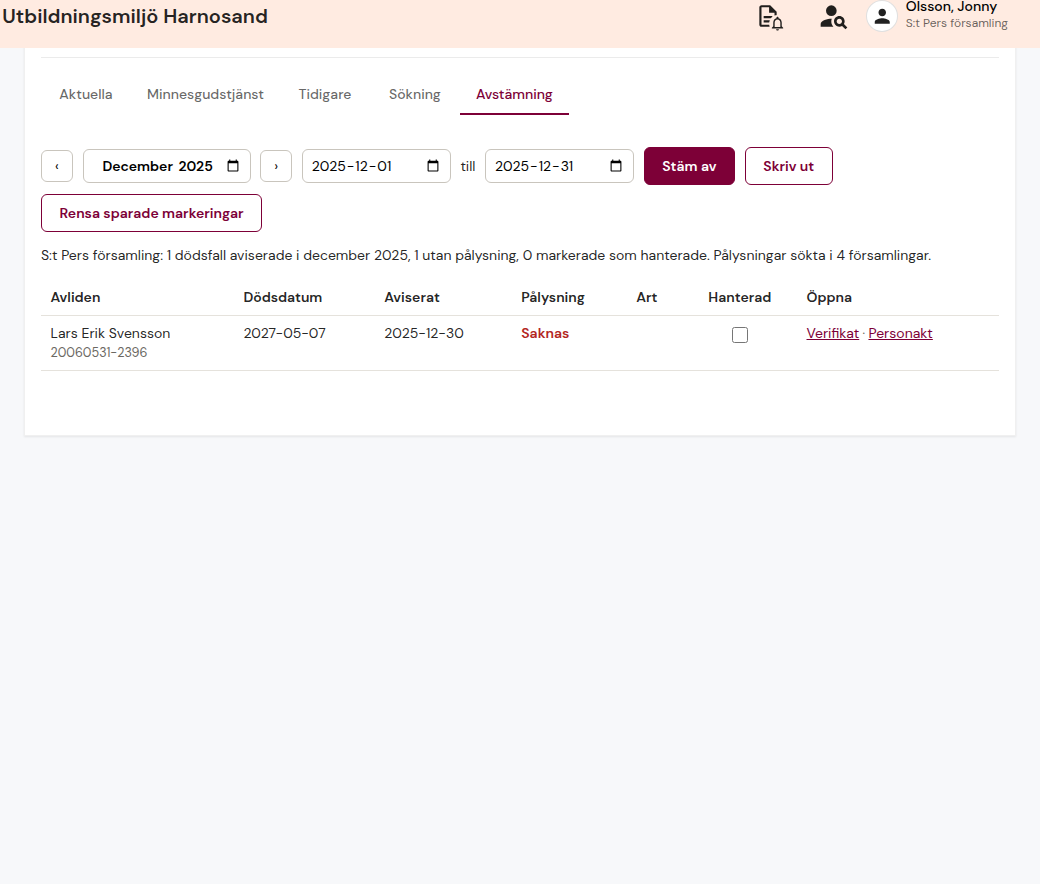
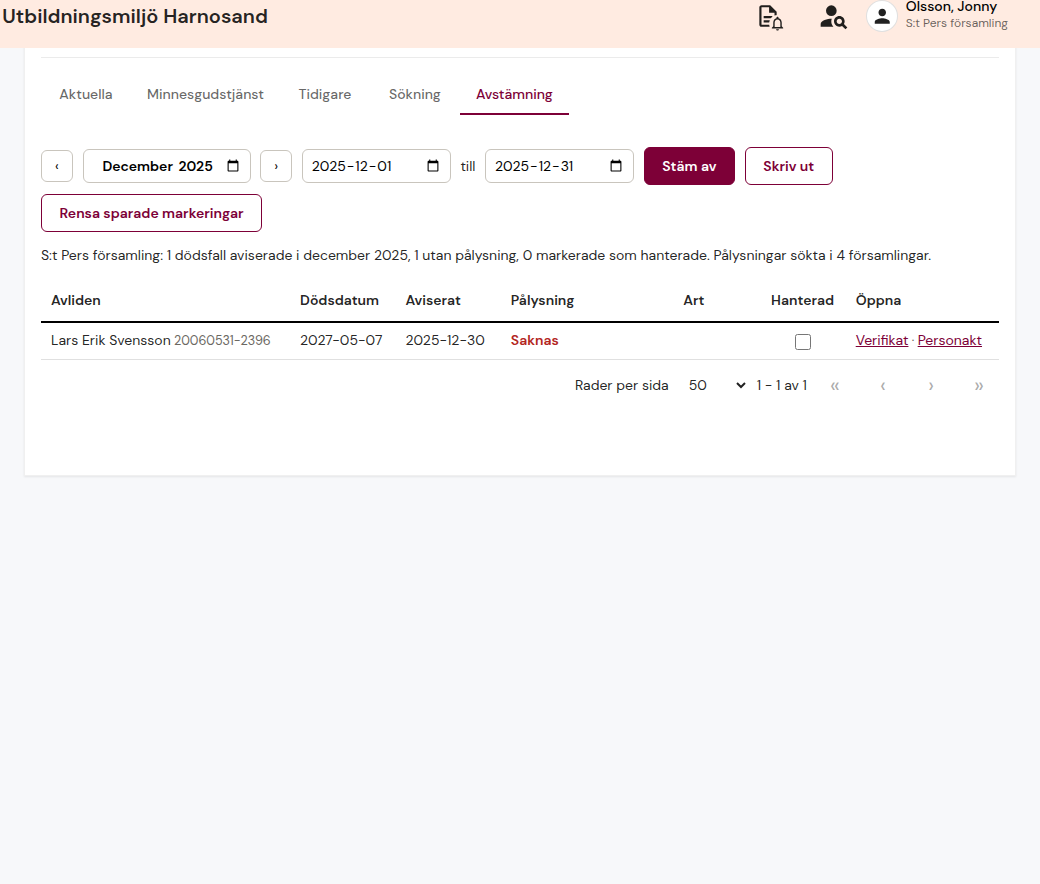
Ge avstämningstabellen Kboks gridutseende och paginering
Rubrikrad 42 px med svart underkant, rader 36 px utan skiljelinjer,
celler på en rad med ellips och fasta kolumnbredder. Fot med Rader per
sida (25/50/100, sparas i localStorage), sidräknare och fyra sidknappar.
Utskriften bygger sin tabell från hela listan, inte från sidan. Byggt av
Codex, kolumnbredderna justerade efter skärmdump, verifierat mot 112
rader i tre sidor.

Claude-Session: https://claude.ai/code/session_016wKJTBLN1626mGn4K9njpR

Changed region(s): [[0.0308, 0.3054, 0.9538, 0.4276], [0.5538, 0.4276, 0.6769, 0.4581], [0.7385, 0.4276, 0.7692, 0.4581]]

diff --git a/svk-kbok-enhancements.user.js b/svk-kbok-enhancements.user.js
@@ -3013,6 +3013,7 @@
      */
 
     const HANTERADE_NYCKEL = 'svk-kbok-hanterade';
+    const AVSTAMNING_SIDSTORLEK_NYCKEL = 'svk-kbok-avstamning-sidstorlek';
     const AVSTAMNING_ID = 'svk-kbok-avstamning';
     const DOLJ_KLASS = 'svk-kbok-dold-av-avstamning';
     const ARENDETYP_DODSFALL = 5;
@@ -3324,11 +3325,17 @@
             #${AVSTAMNING_ID} .svk-kbok-summering { margin: .2rem 0 .8rem; }
             #${AVSTAMNING_ID} .svk-kbok-status { color: #6b6862; }
             #${AVSTAMNING_ID} .svk-kbok-status.svk-kbok-fel { color: #b3261e; }
-            .svk-kbok-avstamningstabell { border-collapse: collapse; width: 100%; }
+            .svk-kbok-avstamningstabell { border-collapse: collapse; table-layout: fixed;
+                width: 100%; color: rgba(0, 0, 0, .87); font: inherit; }
             .svk-kbok-avstamningstabell th, .svk-kbok-avstamningstabell td {
-                text-align: left; vertical-align: top; padding: .45rem .6rem;
-                border-bottom: 1px solid #e5e2dc; }
-            .svk-kbok-avstamningstabell th { font-weight: 600; white-space: nowrap; }
+                box-sizing: border-box; overflow: hidden; padding: 0 10px;
+                text-align: left; text-overflow: ellipsis; white-space: nowrap; }
+            .svk-kbok-avstamningstabell th { height: 42px; border-bottom: 2px solid #000;
+                background: #fff; font-size: 14px; font-weight: 600; line-height: 40px; }
+            .svk-kbok-avstamningstabell tbody tr { height: 36px; }
+            .svk-kbok-avstamningstabell tbody tr:hover { background: rgba(0, 0, 0, .04); }
+            .svk-kbok-avstamningstabell td { height: 36px; border-bottom: 0;
+                font-size: 14px; line-height: 35px; }
             .svk-kbok-avstamningstabell .svk-kbok-mitt { text-align: center; }
             .svk-kbok-avstamningstabell .svk-kbok-mitt input { vertical-align: middle; }
             .svk-kbok-avstamningstabell .svk-kbok-saknas { color: #b3261e; font-weight: 600; }
@@ -3336,6 +3343,18 @@
             .svk-kbok-avstamningstabell tr.svk-kbok-hanterad td { opacity: .5; }
             .svk-kbok-avstamningstabell a { color: ${ACCENT}; }
             .svk-kbok-avstamningstabell .svk-kbok-dampad { color: #6b6862; font-size: .9em; }
+            #${AVSTAMNING_ID} .svk-kbok-paginering { display: flex; align-items: center;
+                justify-content: flex-end; gap: 8px; min-height: 52px;
+                border-top: 1px solid rgb(224, 224, 224); white-space: nowrap; }
+            #${AVSTAMNING_ID} .svk-kbok-paginering select { border: 0; background: transparent;
+                color: inherit; font: inherit; padding: 4px 20px 4px 8px; }
+            #${AVSTAMNING_ID} .svk-kbok-sidknapp { display: inline-flex; align-items: center;
+                justify-content: center; width: 40px; height: 40px; padding: 0; border: 0;
+                border-radius: 50%; background: transparent; color: inherit; font: inherit;
+                font-size: 22px; cursor: pointer; }
+            #${AVSTAMNING_ID} .svk-kbok-sidknapp:hover:not(:disabled) {
+                background: rgba(0, 0, 0, .04); }
+            #${AVSTAMNING_ID} .svk-kbok-sidknapp:disabled { opacity: .38; cursor: default; }
             .svk-kbok-avstamningsutskrift { display: none; }
             @media print {
                 .svk-kbok-avstamningsutskrift { display: block; font: 11pt/1.4 sans-serif; }
@@ -3351,6 +3370,11 @@
         if (klass) e.className = klass;
         if (text !== undefined) e.textContent = text;
         return e;
+    }
+
+    function lasAvstamningssidstorlek() {
+        const sparad = Number(localStorage.getItem(AVSTAMNING_SIDSTORLEK_NYCKEL));
+        return [25, 50, 100].includes(sparad) ? sparad : 50;
     }
 
     function byggAvstamning(tablist) {
@@ -3378,7 +3402,7 @@
 
         const tillstand = {
             flik, panel, vald: false, fran: null, till: null, resultat: null, period: null,
-            borttagen: false,
+            borttagen: false, sida: 0, sidstorlek: lasAvstamningssidstorlek(),
         };
 
         // Föregående kalendermånad är förvald: avstämningen görs månaden
@@ -3492,6 +3516,7 @@
                 text: periodtext(),
             };
             const inaktuell = () => korning !== senasteKorning || tillstand.borttagen;
+            tillstand.sida = 0;
             pagar = true;
             kor.disabled = true;
             status.classList.remove('svk-kbok-fel');
@@ -3547,7 +3572,12 @@
             const ordning = (r) => (r.hanterad ? 3 : !r.palysningar ? 1 : r.palysningar.length ? 2 : 0);
             rader.sort((a, b) => ordning(a) - ordning(b) || (a.aviserat < b.aviserat ? 1 : -1));
 
-            yta.appendChild(byggTabell(rader, tillstand));
+            const antalSidor = Math.max(1, Math.ceil(rader.length / tillstand.sidstorlek));
+            tillstand.sida = Math.min(tillstand.sida, antalSidor - 1);
+            const fran = tillstand.sida * tillstand.sidstorlek;
+            const till = Math.min(fran + tillstand.sidstorlek, rader.length);
+            yta.appendChild(byggTabell(rader, tillstand, fran, till));
+            yta.appendChild(byggPaginering(rader.length, tillstand, rita));
 
             if (skyddade.length) {
                 const p = el('p', 'svk-kbok-status');
@@ -3581,8 +3611,18 @@
         (appPanel || rot).insertAdjacentElement('afterend', panel);
     }
 
-    function byggTabell(rader, tillstand) {
+    function byggTabell(rader, tillstand, fran = 0, till = rader.length) {
         const tabell = el('table', 'svk-kbok-avstamningstabell');
+        // Fast tabellayout klipper långa värden med ellips i stället för att
+        // bryta rad. Bredderna ger namn och pålysning mest plats, datumen
+        // och kryssrutan minst.
+        const kolumner = el('colgroup');
+        [26, 11, 11, 18, 9, 9, 16].forEach((procent) => {
+            const kol = el('col');
+            kol.style.width = `${procent}%`;
+            kolumner.appendChild(kol);
+        });
+        tabell.appendChild(kolumner);
         const huvud = el('thead');
         const hr = el('tr');
         ['Avliden', 'Dödsdatum', 'Aviserat', 'Pålysning', 'Art', 'Hanterad', 'Öppna']
@@ -3591,13 +3631,15 @@
         tabell.appendChild(huvud);
         const kropp = el('tbody');
 
-        rader.forEach((r) => {
+        rader.slice(fran, till).forEach((r) => {
             const tr = el('tr', r.hanterad ? 'svk-kbok-hanterad' : '');
             tr.dataset.verifikatId = r.verifikatId;
 
             const avliden = el('td');
-            avliden.appendChild(el('div', null, r.namn || '(uppgift saknas)'));
-            avliden.appendChild(el('div', 'svk-kbok-dampad', r.personnummer));
+            avliden.appendChild(document.createTextNode(r.namn || '(uppgift saknas)'));
+            if (r.personnummer) {
+                avliden.appendChild(el('span', 'svk-kbok-dampad', ` ${r.personnummer}`));
+            }
             tr.appendChild(avliden);
 
             tr.appendChild(el('td', null, r.dodsdatum || ''));
@@ -3610,26 +3652,28 @@
             } else if (!r.palysningar.length) {
                 palysning.appendChild(el('span', 'svk-kbok-saknas', 'Saknas'));
             } else {
-                r.palysningar.forEach((p) => {
+                r.palysningar.forEach((p, i) => {
                     // Datum och församling räcker här - kyrkan står i pålysningen.
                     const lank = el('a', null,
                         [visaDatum(p.palysningsdatum), p.forsamling].filter(Boolean).join(' · '));
                     lank.href = `/palysning/${p.palysningsId}`;
-                    palysning.appendChild(el('div')).appendChild(lank);
-                    const artrad = el('div');
+                    if (i) palysning.appendChild(document.createTextNode(' · '));
+                    palysning.appendChild(lank);
+                    if (i) art.appendChild(document.createTextNode(' · '));
                     // Löpnumret säger självt att pålysningen är knuten.
                     if (p.knuten === true) {
-                        artrad.textContent = p.lopnr || 'Knuten';
+                        art.appendChild(document.createTextNode(p.lopnr || 'Knuten'));
                     } else if (p.knuten === false) {
-                        artrad.appendChild(el('span', 'svk-kbok-fristaende', 'Fristående'));
+                        art.appendChild(el('span', 'svk-kbok-fristaende', 'Fristående'));
                     } else {
-                        artrad.textContent = 'Art okänd';
+                        art.appendChild(document.createTextNode('Art okänd'));
                     }
-                    art.appendChild(artrad);
                 });
                 const forsamlingar = new Set(r.palysningar.map((p) => p.forsamling));
                 if (forsamlingar.size > 1) {
-                    art.appendChild(el('div', 'svk-kbok-dampad', `${forsamlingar.size} församlingar`));
+                    art.appendChild(document.createTextNode(' · '));
+                    art.appendChild(el('span', 'svk-kbok-dampad',
+                        `${forsamlingar.size} församlingar`));
                 }
             }
             tr.appendChild(palysning);
@@ -3678,6 +3722,52 @@
         });
         tabell.appendChild(kropp);
         return tabell;
+    }
+
+    function byggPaginering(antal, tillstand, rita) {
+        const fot = el('div', 'svk-kbok-paginering');
+        fot.appendChild(el('span', null, 'Rader per sida'));
+
+        const sidstorlek = document.createElement('select');
+        sidstorlek.setAttribute('aria-label', 'Rader per sida');
+        [25, 50, 100].forEach((antalRader) => {
+            const val = el('option', null, String(antalRader));
+            val.value = String(antalRader);
+            val.selected = antalRader === tillstand.sidstorlek;
+            sidstorlek.appendChild(val);
+        });
+        sidstorlek.addEventListener('change', () => {
+            tillstand.sidstorlek = Number(sidstorlek.value);
+            tillstand.sida = 0;
+            localStorage.setItem(AVSTAMNING_SIDSTORLEK_NYCKEL, String(tillstand.sidstorlek));
+            rita();
+        });
+        fot.appendChild(sidstorlek);
+
+        const fran = antal ? tillstand.sida * tillstand.sidstorlek + 1 : 0;
+        const till = Math.min((tillstand.sida + 1) * tillstand.sidstorlek, antal);
+        fot.appendChild(el('span', null, `${fran} - ${till} av ${antal}`));
+
+        const sistaSidan = Math.max(0, Math.ceil(antal / tillstand.sidstorlek) - 1);
+        const laggTillKnapp = (text, etikett, mal, avstangd) => {
+            const knapp = el('button', 'svk-kbok-sidknapp', text);
+            knapp.type = 'button';
+            knapp.setAttribute('aria-label', etikett);
+            knapp.disabled = avstangd;
+            knapp.addEventListener('click', () => {
+                tillstand.sida = mal();
+                rita();
+            });
+            fot.appendChild(knapp);
+        };
+        laggTillKnapp('«', 'Gå till första sidan', () => 0, tillstand.sida === 0);
+        laggTillKnapp('‹', 'Gå till föregående sida', () => tillstand.sida - 1,
+            tillstand.sida === 0);
+        laggTillKnapp('›', 'Gå till nästa sida', () => tillstand.sida + 1,
+            tillstand.sida === sistaSidan);
+        laggTillKnapp('»', 'Gå till sista sidan', () => sistaSidan,
+            tillstand.sida === sistaSidan);
+        return fot;
     }
 
     /* Verifikatet har ingen egen adress. En React-kontext
@@ -3741,18 +3831,15 @@
         const kopia = el('div', `${UTSKRIFT_KLASS} svk-kbok-avstamningsutskrift`);
         kopia.appendChild(el('h2', null, 'Avstämning av tacksägelser'));
         kopia.appendChild(el('p', null, summering));
-        const tabell = tillstand.panel.querySelector('.svk-kbok-avstamningstabell');
-        if (tabell) {
-            const klon = tabell.cloneNode(true);
-            // Kryssrutans läge följer inte med i en klon - skriv det som text.
-            klon.querySelectorAll('input[type=checkbox]').forEach((k, i) => {
-                const original = tabell.querySelectorAll('input[type=checkbox]')[i];
-                k.replaceWith(document.createTextNode(original && original.checked ? 'Ja' : ''));
+        if (tillstand.resultat.rader.length) {
+            const tabell = byggTabell(tillstand.resultat.rader, tillstand);
+            tabell.querySelectorAll('input[type=checkbox]').forEach((k) => {
+                k.replaceWith(document.createTextNode(k.checked ? 'Ja' : ''));
             });
-            klon.querySelectorAll('a').forEach((a) => {
+            tabell.querySelectorAll('a').forEach((a) => {
                 a.replaceWith(document.createTextNode(a.textContent));
             });
-            kopia.appendChild(klon);
+            kopia.appendChild(tabell);
         } else {
             kopia.appendChild(el('p', null, 'Inga dödsfallsverifikat i perioden.'));
         }

diff --git a/Dokumentation.md b/Dokumentation.md
@@ -788,6 +788,13 @@ och döljs medan fliken Avstämning är vald. Klick på appens flikar fångas av
 en lyssnare på `document`, inte på flikraden: React byter ut flikraden vid
 omritning, och en lyssnare på det gamla elementet hade följt med.
 
+Tabellen följer Kboks DataGrid. Rubrikraden är 42 pixlar hög och har en
+svart underkant på 2 pixlar. Dataraderna är 36 pixlar höga och saknar
+skiljelinjer. Cellerna har 10 pixlars sidpadding och visar texten på en rad.
+En fot på 52 pixlar sköter tabellens egen paginering. Den förvalda
+sidstorleken är 50 rader. Användaren kan välja 25, 50 eller 100 rader.
+Skriptet sparar valet i `localStorage`.
+
 Församlingsbyte via API (`GET SwitchEnhetForUser?newEnhetId=N`, det appen
 anropar från dialogen Välj församling) gav `500` när det anropades direkt,
 så avstämning över flera församlingar i ett svep är inte byggd. Verifikaten
@@ -837,6 +844,7 @@ det.
 | `svk-kbok-gruppnamn`, `svk-kbok-gruppkalla` | konfirmationsgruppens namn och gruppvyns adress | sessionStorage | samma |
 | `svk-kbok-onskad-sida`, `svk-kbok-mal-forsokt` | adressen att gå till efter miljövalet i Utbildningsmiljön | sessionStorage | tills miljövalet är gjort |
 | `svk-kbok-hanterade` | verifikat-id och datum för Hanterad-markeringar | localStorage | tolv månader, eller knappen Rensa |
+| `svk-kbok-avstamning-sidstorlek` | vald sidstorlek för avstämningstabellen | localStorage | tills användaren väljer en annan sidstorlek |
 | `svk-kbok-enhancements` | inställningarna och genvägarna | localStorage | tills användaren ändrar dem |
 | `svk-kbok-miljo` | senast valda miljö i Utbildningsmiljön | localStorage | tills nästa val |
 | `svk-kbok-senaste-version`, `svk-kbok-uppdatering-visad` | uppdateringskontrollens minne | localStorage | ett dygn |

diff --git a/CHANGELOG.md b/CHANGELOG.md
@@ -5,6 +5,7 @@ byggt framgår av commit-historiken.
 
 ## 0.46
 
+- Avstämningens lista ser ut som Kboks andra listor och bläddras sidvis, 50 rader per sida som förval.
 - **Konfirmationsgrupper hämtas när du byter församling**, så gamla grupper inte står kvar och ser ut som den nya församlingens.
 - Länkikonen finns nu även i Pålysningsboken och öppnar pålysningen i ny flik.
 - **Avstämning av tacksägelser** i Pålysningsboken: en ny flik visar vilka
